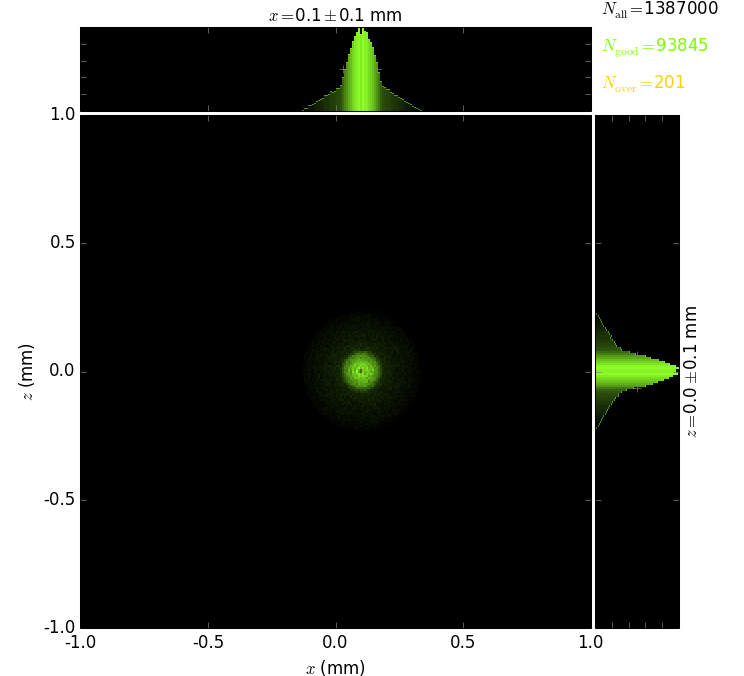
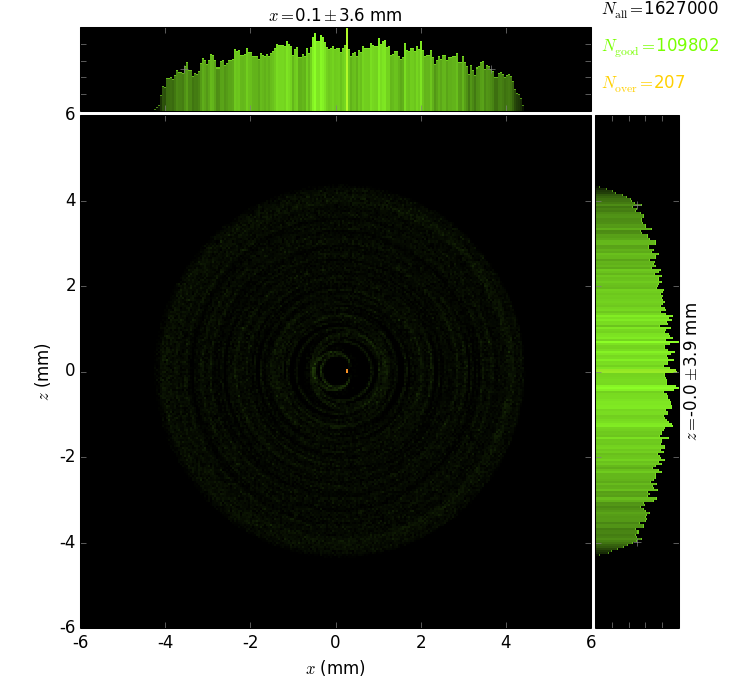
Conical shape parameters check

diff --git a/StraightCapillary.py b/StraightCapillary.py
@@ -25,7 +25,7 @@ repeats = 3000 # number of ray traycing iterations
 E0 = 9000.
 rSample = 100. # starting position of the lens
 f = 330. # y length in mm from foucs to the end of the lens
-screen2_pos = f + 10
+screen2_pos = f + 500
 r0 = 0.071
 rOut = 0.012
 wall = 0.02
@@ -180,7 +180,8 @@ def main():
     beamLine = build_beamline()
     plots = []
     
-    limits = [-1, 1]
+    lim_ = 6
+    limits = [-lim_, lim_]
     # at the entrance
     plot = xrtp.XYCPlot('beamFSM2', (1,3),
         xaxis=xrtp.XYCAxis(r'$x$', 'mm', bins=256, ppb=2, limits=limits),
